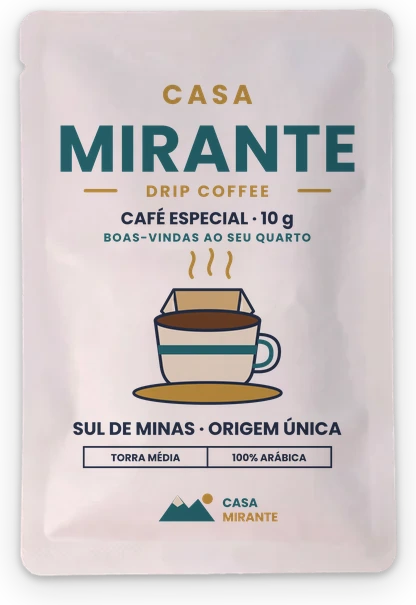
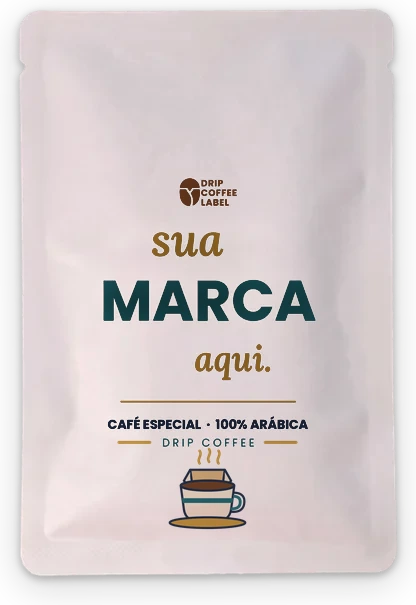
Foto do Colorido sobre o mockup original: textos coloridos, fios e xícara com drip
Claude-Session: https://claude.ai/code/session_01PZPQzB469oHskygaSEkhQQ

Changed region(s): [[0.125, 0.2083, 0.875, 0.8926], [0.375, 0.119, 0.625, 0.1785]]

diff --git a/index.html b/index.html
@@ -599,7 +599,7 @@ fbq('track','PageView');
         <a class="duv js-zap" data-origem="modelo-kraft" href="#" target="_blank" rel="noopener">Dúvidas? Fale com a gente</a>
       </article>
       <article class="prod d3" data-modelo="branco">
-        <div class="img"><img src="assets/img/p-branco-cut.webp?v=3" data-cor="assets/img/p-branco-cor-cut.webp?v=3" alt="Drip Branco Premium com a sua marca" width="416" height="605" loading="lazy"></div>
+        <div class="img"><img src="assets/img/p-branco-cut.webp?v=3" data-cor="assets/img/p-branco-cor-cut.webp?v=4" alt="Drip Branco Premium com a sua marca" width="416" height="605" loading="lazy"></div>
         <h3>Branco Premium</h3>
         <p class="med">10 × 15 cm · papel branco</p>
         <p class="desc">Maior, com contraste máximo para a logo e espaço para uma mensagem.</p>
@@ -620,7 +620,7 @@ fbq('track','PageView');
         <a class="duv js-zap" data-origem="modelo-branco" href="#" target="_blank" rel="noopener">Dúvidas? Fale com a gente</a>
       </article>
       <article class="prod d3" data-modelo="kraftp">
-        <div class="img"><img src="assets/img/p-kraft-premium-cut.webp?v=3" data-cor="assets/img/p-kraft-premium-cor-cut.webp?v=3" alt="Drip Kraft Premium com a sua marca" width="417" height="606" loading="lazy"></div>
+        <div class="img"><img src="assets/img/p-kraft-premium-cut.webp?v=3" data-cor="assets/img/p-kraft-premium-cor-cut.webp?v=4" alt="Drip Kraft Premium com a sua marca" width="417" height="606" loading="lazy"></div>
         <h3>Kraft Premium</h3>
         <p class="med">10 × 15 cm · kraft liso</p>
         <p class="desc">O tamanho do premium com o kraft liso. Impressão mais nítida.</p>

diff --git a/artes/impressao-colorida_aplica.py b/artes/impressao-colorida_aplica.py
@@ -1,0 +1,30 @@
+import sys,subprocess,io
+from PIL import Image
+import numpy as np, cv2
+base,out,x0,y0,kx,ky,svg=sys.argv[1:8];x0,y0,kx,ky=map(float,(x0,y0,kx,ky))
+im=Image.open(base).convert('RGBA');W,H=im.size;a=np.array(im).astype(float);rgb=a[...,:3]
+mm=lambda x,y:(int(round(x0+x*kx)),int(round(y0+y*ky)))
+g=rgb.mean(-1);loc=cv2.GaussianBlur(g,(0,0),kx*5);paper=cv2.GaussianBlur(rgb,(0,0),kx*5)
+# tinta = quanto o pixel é mais escuro que o papel em volta (0 papel, 1 tinta cheia)
+d=np.clip((1-g/np.maximum(loc,1))/0.55,0,1)
+hexc=lambda h:np.array([int(h[i:i+2],16) for i in (1,3,5)],float)
+def tint(xa,ya,xb,yb,c):
+    (X0,Y0),(X1,Y1)=mm(xa,ya),mm(xb,yb);sl=d[Y0:Y1,X0:X1][...,None]
+    ink=paper[Y0:Y1,X0:X1]*hexc(c)/255*0.97
+    rgb[Y0:Y1,X0:X1]=rgb[Y0:Y1,X0:X1]*(1-sl)+ink*sl
+OURO,PETR,NAVY,MARROM='#B8892F','#1F6A73','#1E2B45','#844C29'
+tint(38,43.5,62,53.5,MARROM)    # logo Drip Coffee Label
+tint(30,57.5,58,67,OURO)        # sua
+tint(19,70,81,84,PETR)          # MARCA
+tint(42,87.5,70,100,OURO)       # aqui.
+tint(24,103,76,105.2,OURO)      # fio
+tint(20,107,80,112.2,NAVY)      # CAFÉ ESPECIAL · 100% ARÁBICA
+tint(30,113,70,117,PETR)        # DRIP COFFEE
+fw,fh=int(round(100*kx)),int(round(150*ky))
+png=subprocess.run(['rsvg-convert','-w',str(fw*3),'-h',str(fh*3),svg],capture_output=True,check=True).stdout
+art=Image.open(io.BytesIO(png)).convert('RGBA').resize((fw,fh),Image.LANCZOS)
+L=Image.new('RGBA',(W,H),(0,0,0,0));L.paste(art,(int(round(x0)),int(round(y0))))
+L=np.array(L).astype(float);al=L[...,3:4]/255*0.96*(a[...,3:4]>250)
+rgb[:]=rgb*(1-al)+(rgb*L[...,:3]/255)*al
+a[...,:3]=rgb
+Image.fromarray(np.clip(a,0,255).astype('uint8'),'RGBA').save(out,**({'quality':92,'method':6} if out.endswith('.webp') else {}))
